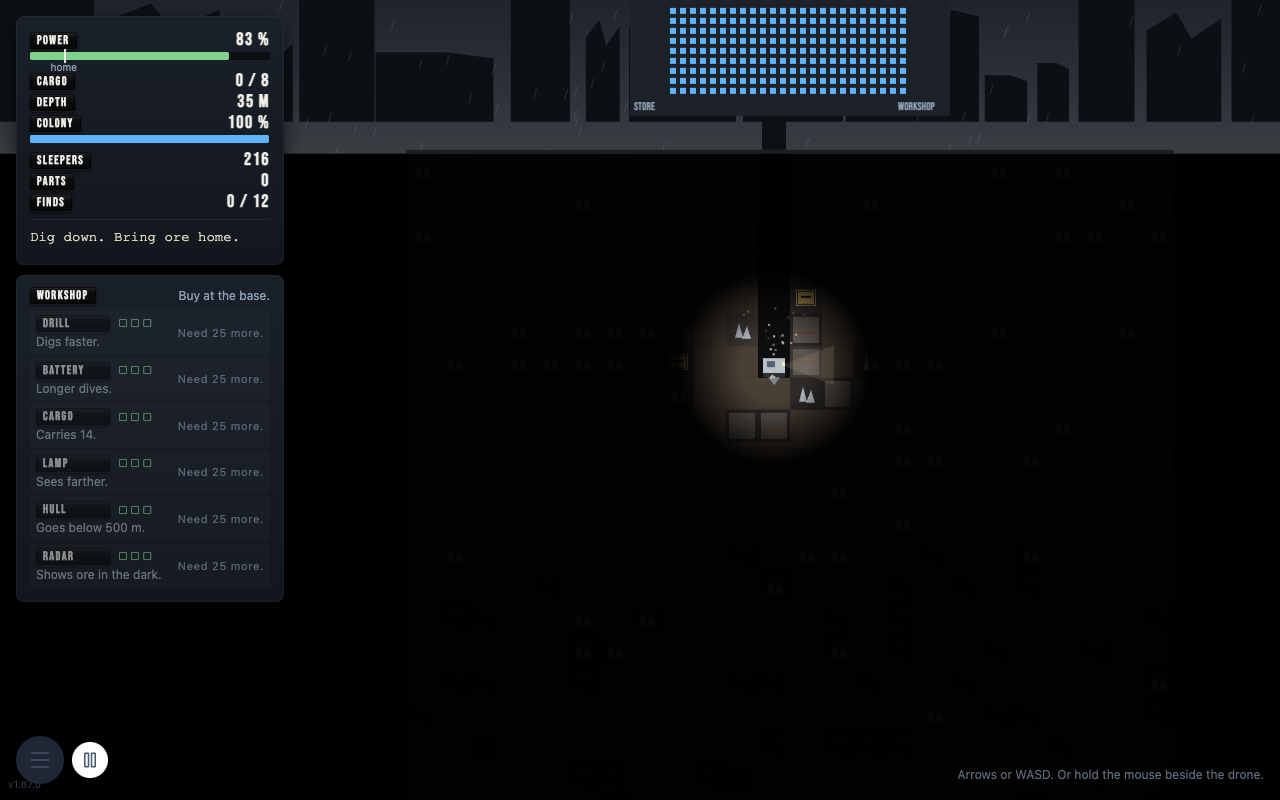
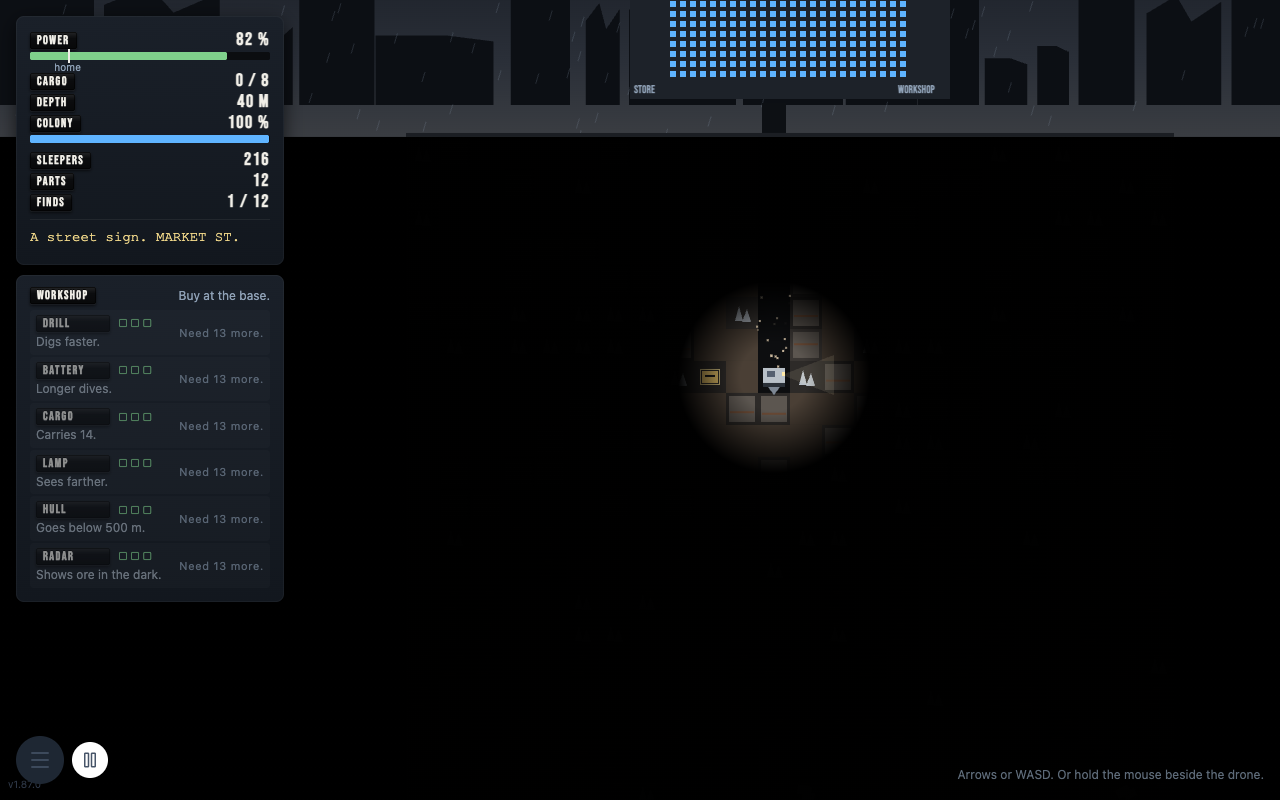
dig: turn-back line, darker dark, sim table in the spec, build playtest notes and shots

diff --git a/src/phase4d/dig.js b/src/phase4d/dig.js
@@ -267,6 +267,7 @@ export function step(s, dt, input = {}) {
         }
     } else s.podT = 0;
     const cap = batteryCap(s);
+    if (isHome(s)) s.warned = false;
     if (isHome(s) && !s.act) {
         s.battery = Math.min(cap, s.battery + cap * CHARGE_RATE * dt);
         if (s.cargo.length) {
@@ -283,6 +284,8 @@ export function step(s, dt, input = {}) {
             }
         } else s.unloadT = 0;
     } else if (s.y >= 0) {
+        // once a dive: the moment the battery is just enough to fly home
+        if (!s.warned && s.y > 2 && s.battery < homeCost(s) * 1.15 + 3) { s.warned = true; say(s, 'Turn back. Just enough power to fly home.', 'alarm', 0); s.events.push({ type: 'warn' }); }
         let drain = IDLE_DRAIN;
         if (depthOf(s.y) > HEAT_FROM && s.grafts < 3) drain += HEAT_DRAIN;
         s.battery -= drain * dt;

diff --git a/src/phase4d/sound.js b/src/phase4d/sound.js
@@ -49,7 +49,7 @@ export function createDigSound() {
             else if (e.type === 'deliver') audio.pling();
             else if (e.type === 'buy' || e.type === 'graft') audio.thunk();
             else if (e.type === 'find' || e.type === 'record' || e.type === 'layer') audio.rise();
-            else if (e.type === 'dead' || e.type === 'pod' || e.type === 'gate') audio.knock();
+            else if (e.type === 'dead' || e.type === 'pod' || e.type === 'gate' || e.type === 'warn') audio.knock();
             else if (e.type === 'heart') thump(1, 40);
         },
         /** Each frame: the depth in metres and the seconds since the last. */

diff --git a/src/phase4d/dig.test.js b/src/phase4d/dig.test.js
@@ -57,6 +57,12 @@ describe('the rules', () => {
         expect(s.reserve).toBeLessThanOrEqual(40);
         expect(s.line.text).toBe('Recovered. The cargo is gone.');
     });
+    test('once a dive, when the battery is just enough to fly home: Turn back.', () => {
+        const s = preparedState({ row: 30 });
+        s.y = 30; s.battery = 20;
+        step(s, 0.05, {});
+        expect(s.line.text).toBe('Turn back. Just enough power to fly home.');
+    });
     test('the colony at 0 %: a pod goes dark every three seconds', () => {
         const s = newState(7);
         s.reserve = 0;

diff --git a/src/phase4d/render.js b/src/phase4d/render.js
@@ -192,7 +192,7 @@ export function createRenderer(canvas) {
             if (mad > 0) rad *= 1 - mad * 0.12 * (hash(Math.floor(t * 9), 5) > 0.8 ? 1 : 0);
             const g = ctx.createRadialGradient(dx, dy, rad * 0.35, dx, dy, rad);
             g.addColorStop(0, 'rgba(0,0,0,0)');
-            g.addColorStop(1, `rgba(0,0,0,${(0.97 * under).toFixed(3)})`);
+            g.addColorStop(1, `rgba(0,0,0,${(0.995 * under).toFixed(3)})`);
             ctx.fillStyle = g;
             const top = Math.max(0, groundY);
             ctx.fillRect(0, top, vw, vh - top);

diff --git a/docs/superpowers/specs/2026-10-05-deep-dig.md b/docs/superpowers/specs/2026-10-05-deep-dig.md
@@ -98,3 +98,49 @@ Teardown tystar allt.
 ## Text
 
 Engelska, korta meningar, inga odds, inga internord, en text per sak. Plånboken (PARTS, senare BIOMASS) syns i panelen och i verkstaden.
+
+## Built (deep-dig)
+
+v1.87.0, 2026-10-05, gren `deep-dig`. Kod i `src/phase4d/` (world.js, dig.js, autopilot.js, render.js, sound.js, index.js), val av version i `src/deepVersion.js`.
+
+**Ändringar mot specen (och varför)**
+- Tre nivåer per rad (0 till 3), så basalt kräver DRILL 3 (inte 4). Hård sten är ett helt band på 300 m (DRILL 2), basalt ett band på 700 m (DRILL 3).
+- HULL är en djupgrind i tre steg: 500 m, 900 m, värmen vid 1 200 m. Ingen fallskada alls (fall var bara straff utan beslut).
+- Drönaren kan sväva och gräva åt sidan i sitt eget schakt (annars gick schaktets väggar inte att bryta, och det kändes som en bugg). Uppåt går fortfarande bara genom öppen mark.
+- Flygningen hem accelererar under en lång stigning (annars blev varje djupt dyk 30 s transport, ren grind).
+- POWER-stapeln har ett vitt "home"-streck: batteriet som behövs för att flyga hem. Det är beslutet "en ruta till eller hem nu" synligt. En gång per dyk: `Turn back. Just enough power to fly home.`
+- Verkstaden visas hela tiden (man ser vad man sparar till), men går bara att köpa i vid basen. Hela ytan är basen (y = -1).
+- Priser 25 / 100 / 400 parts (inte 30 / 120 / 400): annars stod spelaren still vid 300 m.
+- Graft-priser 6 / 15 / 30 biomassa. BONE DRILL krävs för senorna över hjärtat (1 935 m).
+- Malm som inte finns (spökmalm) under 700 m: radarn visar den inte, så RADAR får en mening där nere.
+
+**Sim** (`node scripts/sim-dig.mjs`, frö 7, en rimlig spelare som dyker, bryter närmaste synliga malm, går hem på batteri eller full last, köper billigaste nyttiga, läser nästa grind i verkstaden):
+
+```
+ min  record   parts  bio  upgr  sleepers  colony  deaths
+   1    220 m      30    0     3       216     98 %       0
+   2    220 m      66    0     5       216     99 %       0
+   3    255 m      92    0     6       216     99 %       0
+   4    295 m      90    0     7       216    100 %       0
+   5    410 m      50    0     9       216     96 %       0
+   6    480 m      72    0    10       216     98 %       0
+   7    505 m     209    0    11       216     99 %       0
+   8    550 m     295    0    11       216     91 %       0
+   9    645 m      77    0    12       216     94 %       0
+  10    695 m     265    0    12       216     92 %       0
+  11    710 m      57    0    13       216     99 %       0
+  12    810 m     125    0    14       216     95 %       0
+  13    830 m     353    0    14       216     91 %       0
+  14    955 m     281    0    15       216     98 %       0
+  15   1035 m     253    0    16       216     95 %       0
+  16   1035 m      44    0    17       216     93 %       0
+  17   1135 m     228    0    17       216     89 %       0
+  18   1220 m     236    0    18       216     86 %       0
+  19   1480 m     476    0    18       216     92 %       0
+  20   1805 m     532    8    18       216     85 %       0
+  21   1835 m     532    0    21       216     92 %       0
+  22   1835 m     540   39    21       216     97 %       0
+  23   1930 m     540   66    21       216    100 %       0
+  24   2000 m     540   74    21       216     85 %       0
+```
+Första malm hemma 9 s, första uppgradering 10 s, alla tolv fynd, hjärtat 25,0 min (frö 11: 23,8 min). Längsta väntan på nya 25 m: 101 s. Inga sovande förlorade för den försiktiga spelaren. Den slarviga (`--careless`, ignorerar hemsignalen halva tiden) dör 4 gånger första minuten, kolonin når 0 % vid minut 2 och alla 216 är borta runt minut 12.

diff --git a/docs/playtests/2026-10-05-dig-build.md b/docs/playtests/2026-10-05-dig-build.md
@@ -1,0 +1,27 @@
+# IV · the dig, build playtest (2026-10-05, v1.87.0)
+
+Headless Chrome, 1280x800, muted, real key presses and clicks (`node scripts/play-dig.mjs`, and `--long 4` where the autopilot's choice is sent as keys). Shots in `docs/playtests/dig-shots/`.
+
+| Shot | What am I doing | What choice do I have | Does the screen show it |
+|---|---|---|---|
+| 01-start | Standing on the hatch under the ruins. | Dig down, left or right. | Yes: "Dig down. Bring ore home.", workshop with prices, 216 blue pod windows. |
+| 02-first-dive | Digging straight down, 40 m. A find: "A street sign. MARKET ST." | Keep going or mine the crystals beside me. | Yes, the lamp circle shows the crystals; parts went up by the find. |
+| 03-sideways | Mining a side tunnel; second find "A child's shoe." | One more tile or back. | Yes, POWER with the home mark. |
+| 04-home (first run) | Pressed up in a side tunnel. | Walk back to the shaft. | "Up only through open ground." Clear, but a beginner will hit it. Kept (it is the rule that makes the shaft matter). |
+| 06-mouse-dig | Holding the mouse under the drone: it digs down. | Same as keys. | Yes. |
+| long-060s | 280 m with a 40-battery drone: the bar is red at the home mark. | Home now. | Yes, but the first long run still died at 30 s ("Recovered. The cargo is gone."). Added the one-time line "Turn back. Just enough power to fly home." |
+| 07-war | Through the hard band at 300 m with DRILL 2: "Old rock. Nobody lived here." | Mine paper, push to 500 m. | Yes. HULL row says "Goes below 500 m." |
+| 08-machine | 720 m, the machine layer, ghost ore: "It was not there." | Trust the radar. | Yes; radar dots only on real ore. |
+| 09-flesh | 1 715 m in pulsing flesh with the bone drill, biomass in the panel, GRAFT row next: HEALING CELL. | Biomass home for grafts. | Yes; the colony bar is red (dreaming), pods red. |
+| 11-woke | Touched the heart: "Woke: everyone is here." The pods empty, the red band, RISE. | RISE. | Yes, RISE in the middle. |
+| 12-unity | V · UNITY card. | None, the end. | Yes. |
+
+## Grind and dead moments found, and what I did
+- Every deep dive was 30 s of transport (fall + climb through 300 tiles). Climbing now accelerates, falling already did.
+- After all six rows were bought (sim minute 14 at the old prices) parts piled up with nothing to buy: 19 minutes of digging for nothing. Raised level 3 to 400 and the warm rock softer; the last row is now bought around minute 18, then grafts at 21 to 22, heart at 24 to 25. Late ore still matters: it feeds the colony, whose drain grows with time.
+- The sim player stalled at 900 m with all ore above mined and no parts for HULL 2: a player who spends everything on lamps can strand. Deep ore is now richer, and the workshop text names each gate's depth so a player can save for it. Not fully proof against a player who buys everything else first.
+- First dive kills a beginner who just holds down (battery 40). Kept the danger (it is the core decision), added the home mark and the turn-back line.
+
+## Not checked by a human eye
+- Real-time feel of key repeat on a slow machine; the long autopilot run over the DevTools protocol plays worse than the headless sim because of input lag, so it is not a measure of pace.
+- Sound (all runs muted).
